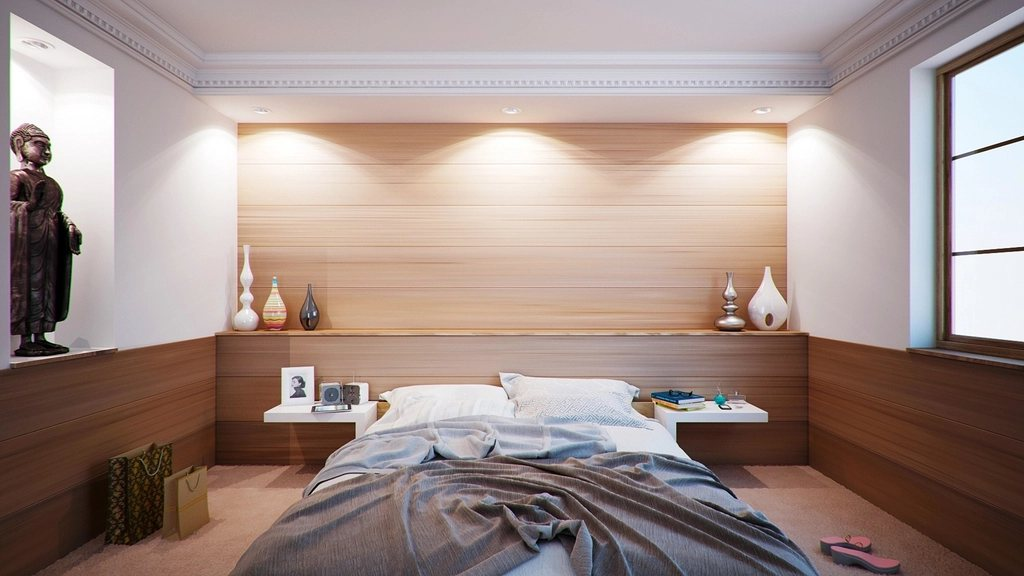
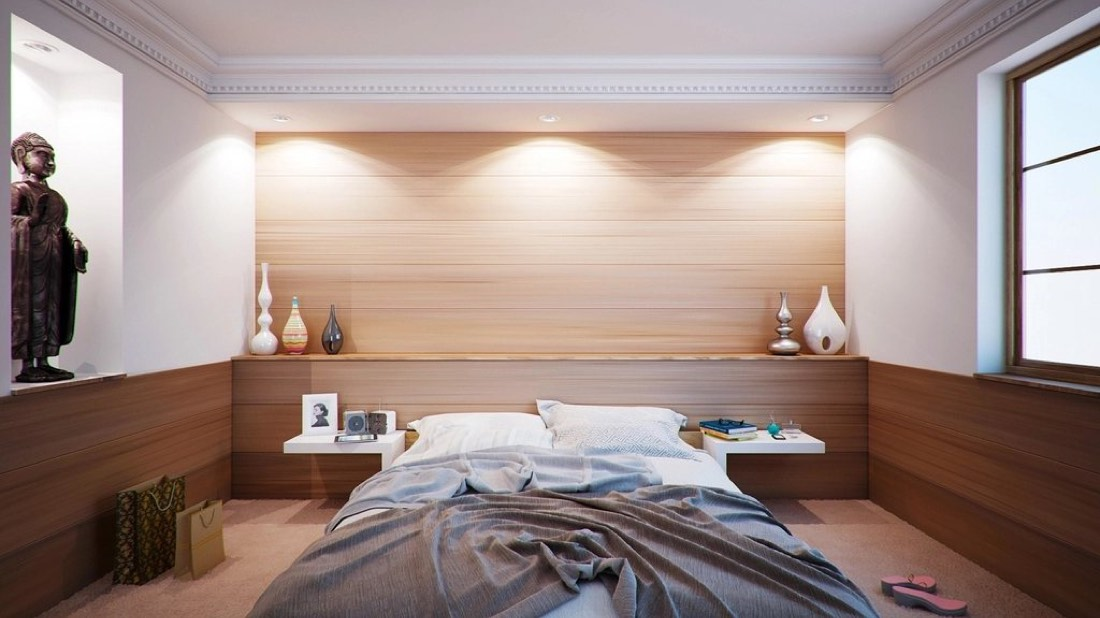
v3: centre the whole site and give every section a photograph
Seven more CC0 photos (10 total, 1.1MB after resampling, because he reviews
on a phone). Room checklist becomes four photo cards; precios, zonas,
preguntas and presupuesto each gain a picture; towns become centred chips.

Section heads, labels, the calculator, the story, the FAQ and the form all
centre; running prose and the checklists stay left-aligned.

Phone fixes found at a real 390px viewport: "Quincenal" was clipping, the
story had no side gutter, a nowrap placeholder ran off the screen edge.

diff --git a/index.html b/index.html
@@ -8,7 +8,7 @@
 <meta name="theme-color" content="#FBF9F5">
 <meta property="og:title" content="Noymi House Cleaning Service · Phoenixville, PA">
 <meta property="og:description" content="Limpieza de casas y oficinas en Phoenixville y alrededores. Siempre la misma persona, precio cerrado antes de empezar.">
-<meta property="og:image" content="https://zed0minat0r.github.io/casa-brillante/img/sala.jpg">
+<meta property="og:image" content="https://zed0minat0r.github.io/casa-brillante/img/sala.jpg?h=db12689a">
 <meta property="og:url" content="https://zed0minat0r.github.io/casa-brillante/">
 <meta property="og:type" content="website">
 <meta property="og:locale" content="es_US">
@@ -17,7 +17,7 @@
 <link rel="preconnect" href="https://fonts.gstatic.com" crossorigin>
 <link rel="stylesheet" href="https://fonts.googleapis.com/css2?family=Instrument+Serif:ital@0;1&family=Inter:wght@400;500;600&display=swap">
 <script type="application/ld+json">
-{"@context":"https://schema.org","@type":"HouseKeepingService","name":"Noymi House Cleaning Service","areaServed":{"@type":"City","name":"Phoenixville","addressRegion":"PA"},"address":{"@type":"PostalAddress","addressLocality":"Phoenixville","addressRegion":"PA","postalCode":"19460","addressCountry":"US"},"url":"https://zed0minat0r.github.io/casa-brillante/","image":"https://zed0minat0r.github.io/casa-brillante/img/sala.jpg","availableLanguage":["es"],"priceRange":"$$"}
+{"@context":"https://schema.org","@type":"HouseKeepingService","name":"Noymi House Cleaning Service","areaServed":{"@type":"City","name":"Phoenixville","addressRegion":"PA"},"address":{"@type":"PostalAddress","addressLocality":"Phoenixville","addressRegion":"PA","postalCode":"19460","addressCountry":"US"},"url":"https://zed0minat0r.github.io/casa-brillante/","image":"https://zed0minat0r.github.io/casa-brillante/img/sala.jpg?h=db12689a","availableLanguage":["es"],"priceRange":"$$"}
 </script>
 <style>
 /* ════════════════════════════════════════════════════════════════════════════════════════════
@@ -68,7 +68,9 @@ img{display:block;max-width:100%;height:auto}
 .mid{width:min(760px,calc(100% - 2.6rem));margin-inline:auto}
 .caps{font-family:var(--body);font-weight:600;font-size:.7rem;letter-spacing:.24em;text-transform:uppercase}
 .lead{font-size:1.1rem;line-height:1.62;color:var(--ink-2)}
-.ph{background:var(--ph-bg);color:var(--ph-ink);padding:0 .34em;border-radius:3px;font-weight:600;font-size:.92em;white-space:nowrap;font-family:var(--body);letter-spacing:0}
+/* NOT nowrap: a sentence-length placeholder would run straight off a 390px screen. The short
+   ones (a phone number, an email) have no space to break at anyway. */
+.ph{background:var(--ph-bg);color:var(--ph-ink);padding:.05em .34em;border-radius:3px;font-weight:600;font-size:.92em;font-family:var(--body);letter-spacing:0;box-decoration-break:clone;-webkit-box-decoration-break:clone}
 section{padding:6rem 0;position:relative}
 .hr{height:1px;background:var(--line);border:0;margin:0}
 .btn{display:inline-flex;align-items:center;justify-content:center;min-height:var(--tap);padding:0 1.8rem;font-family:var(--body);font-weight:600;font-size:.74rem;letter-spacing:.14em;text-transform:uppercase;text-decoration:none;border:1px solid var(--ink);color:var(--ink);background:transparent;border-radius:2px;cursor:pointer;transition:background .22s,color .22s}
@@ -78,12 +80,17 @@ section{padding:6rem 0;position:relative}
 .btn.clay{background:var(--clay);border-color:var(--clay);color:#fff}
 .btn.clay:hover{background:var(--clay-2);border-color:var(--clay-2)}
 
-/* ── SECTION HEADS: a number in the margin, the way a printed piece numbers its sections ── */
-.head{display:grid;grid-template-columns:auto 1fr;gap:1.5rem;align-items:start;margin-bottom:3rem}
-.head .no{font-family:var(--display);font-size:1rem;color:var(--clay);padding-top:.55rem;letter-spacing:.06em}
-.head h2{margin-top:-.4rem}
-.head .lead{margin-top:.9rem;max-width:620px}
-@media(max-width:639px){.head{grid-template-columns:1fr;gap:.4rem}.head .no{padding-top:0}}
+/* ── SECTION HEADS: CENTRED, with the roman numeral sitting over the heading rather than beside
+   it. Matt reviews this on a PHONE only, where a margin numeral has no margin to sit in. ── */
+.head{text-align:center;margin-bottom:2.6rem}
+.head .no{display:block;font-family:var(--display);font-size:1rem;color:var(--clay);letter-spacing:.3em;margin-bottom:.7rem}
+.head .lead{margin:1rem auto 0;max-width:560px}
+
+/* every section carries a picture - small, centred, one consistent shape */
+.secimg{display:block;width:min(560px,100%);margin:0 auto 2.4rem;aspect-ratio:16/9;object-fit:cover;border-radius:3px}
+.secimg.tall{aspect-ratio:4/5;width:min(330px,76%)}
+.secimg+.head{margin-top:0}
+.capline{text-align:center;font-size:.66rem;letter-spacing:.2em;text-transform:uppercase;color:var(--faint);margin-top:-1.9rem;margin-bottom:2.4rem}
 
 /* ── SPLASH ──────────────────────────────────────────────────────────────────────────────────
    A cream page with a wordmark on it is the thing Matt called basic, twice. So the splash is a
@@ -91,7 +98,7 @@ section{padding:6rem 0;position:relative}
    drifting very slowly - and it leaves by two shutters sliding apart off the top and bottom,
    which is a reveal rather than a fade. ───────────────────────────────────────────────────── */
 .splash{position:fixed;inset:0;z-index:100;display:grid;place-items:center;padding:1.5rem;background:#15150F;overflow:hidden}
-.splash .bg{position:absolute;inset:-4%;background:url("img/sala.jpg") center/cover no-repeat;animation:drift 15s ease-in-out infinite alternate;z-index:0}
+.splash .bg{position:absolute;inset:-4%;background:url("img/sala.jpg?h=db12689a") center/cover no-repeat;animation:drift 15s ease-in-out infinite alternate;z-index:0}
 .splash .scrim{position:absolute;inset:0;z-index:1;
   background:radial-gradient(60% 46% at 50% 50%,rgba(21,21,15,.55),transparent 72%),
              linear-gradient(180deg,rgba(21,21,15,.74),rgba(21,21,15,.52) 40%,rgba(21,21,15,.88))}
@@ -128,6 +135,10 @@ section{padding:6rem 0;position:relative}
 
 /* ── HERO, CENTRED ── */
 .hero{text-align:center;padding:5.5rem 0 0}
+/* CENTRED SITE. Headings, labels and standalone lines centre; running prose and the room
+   checklists stay left-aligned, because centred body copy and centred bullets are unreadable. */
+section{text-align:center}
+section ul,section ol,.story p:not(.sidelabel),.room ul{text-align:left}
 .hero .kick{color:var(--clay)}
 .hero h1{margin:1.3rem 0 0}
 .hero .lead{max-width:560px;margin:1.6rem auto 0}
@@ -160,36 +171,35 @@ section{padding:6rem 0;position:relative}
 .ba .tag.l{left:1rem}.ba .tag.r{right:1rem}
 
 /* ── PRICE CALCULATOR ── */
-.calc{display:grid;grid-template-columns:1.05fr .95fr;gap:2.6rem;align-items:center}
-@media(max-width:899px){.calc{grid-template-columns:1fr;gap:1.8rem}}
-.panel{background:var(--card);border:1px solid var(--line);border-radius:4px;padding:2rem 1.8rem}
+.calc{width:min(560px,calc(100% - .2rem));margin:0 auto}
+.panel{background:var(--card);border:1px solid var(--line);border-radius:4px;padding:2rem 1.8rem;text-align:left}
 .field{margin-bottom:1.1rem}
 .field label{display:block;font-size:.68rem;letter-spacing:.17em;text-transform:uppercase;font-weight:600;color:var(--ink-2);margin-bottom:.5rem}
 .seg{display:flex;gap:.4rem;flex-wrap:wrap}
-.seg button{flex:1;min-width:52px;min-height:46px;border:1px solid var(--line-2);background:transparent;border-radius:2px;font-family:var(--body);font-size:.95rem;color:var(--ink);cursor:pointer;transition:background .18s,color .18s,border-color .18s}
+.seg button{flex:1;min-width:52px;min-height:46px;padding:0 .3rem;line-height:1.2;border:1px solid var(--line-2);background:transparent;border-radius:2px;font-family:var(--body);font-size:.95rem;color:var(--ink);cursor:pointer;transition:background .18s,color .18s,border-color .18s}
 .seg button[aria-pressed="true"]{background:var(--ink);color:var(--paper);border-color:var(--ink)}
+/* four word-labels will not sit in one row on a 390px phone - "Quincenal" clips. Two up. */
+@media(max-width:639px){#segFrec{display:grid;grid-template-columns:1fr 1fr}}
 .out{border-top:1px solid var(--line);margin-top:1.4rem;padding-top:1.4rem;text-align:center}
 .out .n{font-family:var(--display);font-size:clamp(2.6rem,7vw,3.6rem);line-height:1;display:block}
 .out .u{font-size:.68rem;letter-spacing:.2em;text-transform:uppercase;color:var(--faint);display:block;margin-top:.5rem}
 
 /* ── ROOM BY ROOM ── */
-.rooms{display:grid;grid-template-columns:repeat(2,1fr);gap:0;border-top:1px solid var(--line)}
-@media(max-width:759px){.rooms{grid-template-columns:1fr}}
-.room{border-bottom:1px solid var(--line);padding:2rem 0}
-.room:nth-child(odd){padding-right:2.4rem;border-right:1px solid var(--line)}
-.room:nth-child(even){padding-left:2.4rem}
-@media(max-width:759px){.room:nth-child(odd){padding-right:0;border-right:0}.room:nth-child(even){padding-left:0}}
-.room h3{display:flex;align-items:baseline;gap:.7rem}
-.room h3 b{font-family:var(--body);font-size:.66rem;letter-spacing:.2em;color:var(--clay);font-weight:600}
-.room ul{margin:.9rem 0 0;padding-left:1.05rem;color:var(--ink-2);font-size:.96rem}
+.rooms{display:grid;grid-template-columns:repeat(2,1fr);gap:1.6rem}
+@media(max-width:759px){.rooms{grid-template-columns:1fr;gap:2rem}}
+.room{background:var(--card);border:1px solid var(--line);border-radius:4px;overflow:hidden;text-align:center}
+.room img{width:100%;aspect-ratio:16/10;object-fit:cover}
+.room .body{padding:1.5rem 1.4rem 1.7rem}
+.room h3{display:block}
+.room h3 b{display:block;font-family:var(--body);font-size:.64rem;letter-spacing:.2em;color:var(--clay);font-weight:600;margin-top:.4rem}
+.room ul{margin:1.1rem 0 0;padding-left:1.05rem;color:var(--ink-2);font-size:.96rem;display:inline-block;text-align:left}
 .room li{margin:.3rem 0}
 
 /* ── HER STORY: drop cap, margin label, big outline watermark behind ── */
 .story{position:relative;overflow:hidden;background:var(--paper-2)}
 .story .mark-bg{position:absolute;left:50%;top:50%;transform:translate(-50%,-50%);font-family:var(--display);font-size:clamp(9rem,26vw,22rem);line-height:1;color:transparent;-webkit-text-stroke:1px rgba(21,21,15,.08);white-space:nowrap;pointer-events:none;user-select:none}
-.story .grid{display:grid;grid-template-columns:.85fr 1.15fr;gap:3rem;align-items:center;position:relative}
-@media(max-width:899px){.story .grid{grid-template-columns:1fr;gap:2rem}}
-.portrait{aspect-ratio:4/5;background:repeating-linear-gradient(135deg,#E8E2D6 0 18px,#E2DBCC 18px 36px);border:1px solid var(--line);border-radius:3px;display:grid;place-items:center;text-align:center;padding:1.5rem}
+.story .grid{position:relative;width:min(640px,calc(100% - 2.6rem));margin:0 auto;text-align:center}
+.portrait{aspect-ratio:4/5;width:min(300px,70%);margin:0 auto 2.2rem;background:repeating-linear-gradient(135deg,#E8E2D6 0 18px,#E2DBCC 18px 36px);border:1px solid var(--line);border-radius:3px;display:grid;place-items:center;text-align:center;padding:1.5rem}
 .portrait span{font-size:.66rem;letter-spacing:.2em;text-transform:uppercase;color:var(--faint)}
 .story p+p{margin-top:1.1rem}
 .dropcap::first-letter{font-family:var(--display);float:left;font-size:3.9rem;line-height:.84;padding:.1rem .5rem 0 0;color:var(--clay)}
@@ -198,7 +208,7 @@ section{padding:6rem 0;position:relative}
 /* ── GALLERY, asymmetric on purpose ── */
 /* the tall frame sets the row height and the two on the right split it, so there is no gap
    left over at the bottom of the short column - which is what an auto row height gives you */
-.gal{display:grid;grid-template-columns:1.4fr 1fr;grid-template-rows:1fr 1fr;gap:1rem;height:min(76vh,760px)}
+.gal{display:grid;grid-template-columns:1.4fr 1fr;grid-template-rows:1fr 1fr;gap:1rem;height:min(76vh,760px);width:min(1180px,100%);margin:0 auto}
 .gal figure{margin:0;position:relative;overflow:hidden;border-radius:3px;min-height:0}
 .gal img{width:100%;height:100%;object-fit:cover}
 .gal .tall{grid-row:span 2}
@@ -206,18 +216,20 @@ section{padding:6rem 0;position:relative}
 @media(max-width:759px){.gal{grid-template-columns:1fr;grid-template-rows:none;height:auto}.gal figure{grid-row:auto;aspect-ratio:4/3}}
 
 /* ── QUOTE ── */
+.zonas{display:flex;flex-wrap:wrap;justify-content:center;gap:.5rem;max-width:720px;margin:0 auto}
+.zonas span{border:1px solid var(--line-2);border-radius:999px;padding:.5rem 1.1rem;font-size:.92rem;color:var(--ink-2)}
 .pull{font-family:var(--display);font-size:clamp(1.7rem,4.2vw,2.7rem);line-height:1.22;text-align:center;letter-spacing:-.018em}
 .pull i{color:var(--clay)}
 .attrib{text-align:center;margin-top:1.4rem;font-size:.68rem;letter-spacing:.2em;text-transform:uppercase;color:var(--faint)}
 
 details{border-bottom:1px solid var(--line);padding:1.2rem 0}
-summary{cursor:pointer;font-family:var(--display);font-size:1.26rem;list-style:none;display:flex;justify-content:space-between;align-items:center;gap:1rem}
+summary{cursor:pointer;font-family:var(--display);font-size:1.26rem;list-style:none;display:flex;justify-content:center;align-items:center;gap:.75rem;text-align:center}
 summary::-webkit-details-marker{display:none}
 summary::after{content:"+";color:var(--clay);font-size:1.3rem}
 details[open] summary::after{content:"−"}
-details p{margin-top:.8rem;color:var(--ink-2);font-size:.98rem}
+details p{margin-top:.8rem;color:var(--ink-2);font-size:.98rem;text-align:center}
 
-form{display:grid;gap:.9rem;margin-top:2.2rem;text-align:left}
+form{display:grid;gap:.9rem;margin-top:2.2rem;text-align:left;width:min(620px,calc(100% - .2rem));margin-inline:auto}
 .two{display:grid;grid-template-columns:1fr 1fr;gap:.9rem}
 @media(max-width:639px){.two{grid-template-columns:1fr}}
 input,select,textarea{width:100%;min-height:var(--tap);padding:.8rem .95rem;font-family:var(--body);font-size:1rem;color:var(--ink);background:var(--card);border:1px solid var(--line-2);border-radius:2px}
@@ -229,7 +241,8 @@ form label{display:block;font-size:.68rem;letter-spacing:.17em;text-transform:up
 
 footer{background:var(--ink);color:rgba(251,249,245,.7);padding:4rem 0 2.6rem;font-size:.93rem}
 footer a{color:#fff}
-footer .cols{display:flex;justify-content:space-between;gap:2.4rem;flex-wrap:wrap}
+footer{text-align:center}
+footer .cols{display:flex;justify-content:center;gap:3rem;flex-wrap:wrap}
 footer .mark{color:var(--paper);font-size:1.6rem}
 footer .caps{color:rgba(251,249,245,.5);margin-bottom:.7rem;display:block}
 
@@ -282,7 +295,7 @@ footer .caps{color:rgba(251,249,245,.5);margin-bottom:.7rem;display:block}
       <a class="btn" href="#precios">Calcular mi precio</a>
     </div>
     <div class="heroshot">
-      <img src="img/sala.jpg" alt="Sala limpia y ordenada con luz natural" width="1024" height="683">
+      <img src="img/sala.jpg?h=db12689a" alt="Sala limpia y ordenada con luz natural" width="1024" height="683">
       <span class="cap">Foto de referencia · pendiente cambiar por fotos de su trabajo</span>
     </div>
   </div>
@@ -296,10 +309,8 @@ footer .caps{color:rgba(251,249,245,.5);margin-bottom:.7rem;display:block}
   <div class="wrap">
     <div class="head rv">
       <span class="no">I</span>
-      <div>
-        <h2>Lo que se hace<br>en cada cuarto</h2>
-        <p class="lead">Nada de listas vagas. Esto es exactamente lo que se limpia, cuarto por cuarto, en una limpieza regular.</p>
-      </div>
+      <h2>Lo que se hace<br>en cada cuarto</h2>
+      <p class="lead">Nada de listas vagas. Esto es exactamente lo que se limpia, cuarto por cuarto, en una limpieza regular.</p>
     </div>
     <div class="rooms" id="rooms"></div>
   </div>
@@ -310,15 +321,13 @@ footer .caps{color:rgba(251,249,245,.5);margin-bottom:.7rem;display:block}
   <div class="wrap">
     <div class="head rv">
       <span class="no">II</span>
-      <div>
-        <h2>Antes y <i>después</i></h2>
-        <p class="lead">Arrastre la línea para ver la diferencia. En el teléfono, deslice con el dedo.</p>
-      </div>
+      <h2>Antes y <i>después</i></h2>
+      <p class="lead">Arrastre la línea para ver la diferencia. En el teléfono, deslice con el dedo.</p>
     </div>
     <div class="ba rv" id="ba">
-      <img class="before" src="img/sala.jpg" alt="La sala antes de limpiar">
+      <img class="before" src="img/sala.jpg?h=db12689a" alt="La sala antes de limpiar">
       <span class="tag l">Antes</span>
-      <img class="after" id="after" src="img/sala.jpg" alt="La sala después de limpiar">
+      <img class="after" id="after" src="img/sala.jpg?h=db12689a" alt="La sala después de limpiar">
       <span class="tag r">Después</span>
       <div class="handle" id="handle"><span class="knob">⇄</span></div>
     </div>
@@ -329,12 +338,11 @@ footer .caps{color:rgba(251,249,245,.5);margin-bottom:.7rem;display:block}
 <!-- ═══ III · PRECIOS ═══ -->
 <section id="precios">
   <div class="wrap">
+    <img class="secimg tall rv" src="img/loza.jpg?h=f8d74252" alt="Loza limpia acomodada en una repisa" width="733" height="1100" loading="lazy">
     <div class="head rv">
       <span class="no">III</span>
-      <div>
-        <h2>Calcule su precio</h2>
-        <p class="lead">Sin llamar y sin dejar su correo. Elija el tamaño de su casa y con qué frecuencia la quiere limpia.</p>
-      </div>
+      <h2>Calcule su precio</h2>
+      <p class="lead">Sin llamar y sin dejar su correo. Elija el tamaño de su casa y con qué frecuencia la quiere limpia.</p>
     </div>
     <div class="calc">
       <div class="panel rv">
@@ -354,14 +362,14 @@ footer .caps{color:rgba(251,249,245,.5);margin-bottom:.7rem;display:block}
           <span class="n" id="precio">—</span>
           <span class="u" id="precioU">por visita</span>
         </div>
-        <a class="btn clay" href="#presupuesto" style="width:100%;margin-top:1.2rem">Pedir este precio por escrito</a>
+        <a class="btn clay" href="#presupuesto" style="width:100%;margin-top:1.2rem">Pedir este precio</a>
       </div>
-      <div class="rv">
-        <p class="sidelabel">Qué incluye el precio</p>
-        <p class="lead" id="frecNota">Todo lo de la lista de arriba, cuarto por cuarto. Productos y equipo incluidos. Sin cargos escondidos al final.</p>
-        <p class="lead" style="margin-top:1.1rem">La primera visita suele ser una <i>limpieza profunda</i> y se cotiza aparte, porque toma más tiempo llegar a lo que no se ha tocado en meses.</p>
-        <p class="note" style="margin-top:1.4rem"><span class="ph">Confirmar todos los precios con Noymi</span> · los números de arriba son de referencia.</p>
-      </div>
+    </div>
+    <div class="rv" style="width:min(560px,100%);margin:2.4rem auto 0">
+      <p class="sidelabel">Qué incluye el precio</p>
+      <p class="lead" id="frecNota">Todo lo de la lista de arriba, cuarto por cuarto. Productos y equipo incluidos. Sin cargos escondidos al final.</p>
+      <p class="lead" style="margin-top:1.1rem">La primera visita suele ser una <i>limpieza profunda</i> y se cotiza aparte, porque toma más tiempo llegar a lo que no se ha tocado en meses.</p>
+      <p class="note" style="margin-top:1.4rem"><span class="ph">Confirmar todos los precios con Noymi</span> · los números de arriba son de referencia.</p>
     </div>
   </div>
 </section>
@@ -385,9 +393,9 @@ footer .caps{color:rgba(251,249,245,.5);margin-bottom:.7rem;display:block}
 <section style="padding-top:0">
   <div class="wrap">
     <div class="gal">
-      <figure class="tall rv"><img src="img/recamara.jpg" alt="Recámara ordenada"><figcaption>Recámara</figcaption></figure>
-      <figure class="wide rv"><img src="img/comedor.jpg" alt="Comedor limpio"><figcaption>Comedor</figcaption></figure>
-      <figure class="wide rv"><img src="img/sala.jpg" alt="Sala limpia"><figcaption>Sala</figcaption></figure>
+      <figure class="tall rv"><img src="img/bano.jpg?h=78290901" alt="Baño limpio" loading="lazy"><figcaption>Baño</figcaption></figure>
+      <figure class="wide rv"><img src="img/cocina2.jpg?h=12e5ee3f" alt="Cocina limpia" loading="lazy"><figcaption>Cocina</figcaption></figure>
+      <figure class="wide rv"><img src="img/comedor.jpg?h=4156e728" alt="Comedor limpio" loading="lazy"><figcaption>Comedor</figcaption></figure>
     </div>
     <p class="note rv" style="margin-top:1rem"><span class="ph">Cambiar por fotos reales de casas que ella ha limpiado</span></p>
   </div>
@@ -404,21 +412,21 @@ footer .caps{color:rgba(251,249,245,.5);margin-bottom:.7rem;display:block}
 <!-- ═══ V · ZONAS ═══ -->
 <section id="zonas">
   <div class="wrap">
+    <img class="secimg rv" src="img/ventana.jpg?h=efd3e0ac" alt="Sala con luz de ventana" width="1100" height="734" loading="lazy">
     <div class="head rv">
       <span class="no">V</span>
-      <div>
-        <h2>Dónde trabajo</h2>
-        <p class="lead">Con base en Phoenixville, PA 19460. Si su pueblo no aparece, pregunte igual.</p>
-      </div>
+      <h2>Dónde trabajo</h2>
+      <p class="lead">Con base en Phoenixville, PA 19460. Si su pueblo no aparece, pregunte igual.</p>
     </div>
-    <div class="rooms rv" style="border-top:0" id="zonalist"></div>
+    <div class="zonas rv" id="zonalist"></div>
   </div>
 </section>
 
 <!-- ═══ VI · PREGUNTAS ═══ -->
 <section id="preguntas" style="background:var(--paper-2)">
   <div class="wrap" style="max-width:860px">
-    <div class="head rv"><span class="no">VI</span><div><h2>Preguntas</h2></div></div>
+    <img class="secimg rv" src="img/aspirado.jpg?h=76ed6b07" alt="Aspiradora sobre piso de madera" width="733" height="1100" loading="lazy" style="aspect-ratio:16/9">
+    <div class="head rv"><span class="no">VI</span><h2>Preguntas</h2></div>
     <div>
       <details class="rv"><summary>¿Tengo que estar en la casa?</summary><p>No hace falta. Muchos clientes dejan una llave o el código de la puerta. Si prefiere estar, también está bien.</p></details>
       <details class="rv"><summary>¿Usted trae los productos?</summary><p>Sí, traigo todo. Si prefiere que use algo que ya tiene en casa, lo uso sin problema.</p></details>
@@ -433,7 +441,8 @@ footer .caps{color:rgba(251,249,245,.5);margin-bottom:.7rem;display:block}
 <!-- ═══ VII · PRESUPUESTO ═══ -->
 <section id="presupuesto">
   <div class="wrap" style="max-width:780px">
-    <div class="head rv"><span class="no">VII</span><div><h2>Pida su presupuesto</h2><p class="lead">Le respondo el mismo día. Sin compromiso.</p></div></div>
+    <img class="secimg rv" src="img/escritorio.jpg?h=50c5d58c" alt="Escritorio ordenado con una planta" width="1100" height="733" loading="lazy">
+    <div class="head rv"><span class="no">VII</span><h2>Pida su presupuesto</h2><p class="lead">Le respondo el mismo día. Sin compromiso.</p></div>
     <form id="quote" class="rv" novalidate>
       <div class="two">
         <div><label for="nombre">Nombre</label><input id="nombre" autocomplete="name" required></div>
@@ -444,9 +453,9 @@ footer .caps{color:rgba(251,249,245,.5);margin-bottom:.7rem;display:block}
         <div><label for="tipo">Tipo de limpieza</label><select id="tipo"></select></div>
       </div>
       <div><label for="mensaje">¿Algo que deba saber?</label><textarea id="mensaje" placeholder="Mascotas, alergias, cuartos que no se tocan, horarios…"></textarea></div>
-      <button class="btn clay" type="submit" style="justify-self:start">Enviar</button>
-      <p class="note">O llame al <span class="ph">(000) 000-0000</span>.</p>
-      <p class="sent" id="sent" aria-live="polite"></p>
+      <button class="btn clay" type="submit" style="justify-self:center;min-width:220px">Enviar</button>
+      <p class="note" style="text-align:center">O llame al <span class="ph">(000) 000-0000</span>.</p>
+      <p class="sent" id="sent" aria-live="polite" style="text-align:center"></p>
     </form>
   </div>
 </section>
@@ -488,13 +497,13 @@ const DATA = {
     {k:"oficina", n:"Oficina o consultorio"}
   ],
   cuartosDetalle:[
-    {n:"Cocina", t:"Todo lo que se toca a diario",
+    {n:"Cocina", t:"Todo lo que se toca a diario", img:"cocina.jpg?h=71118dff",
      items:["Mesones y fregadero","Estufa y campana por fuera","Microondas por dentro y por fuera","Frente de gabinetes","Piso barrido y trapeado","Basura afuera"]},
-    {n:"Baños", t:"Lo que de verdad importa",
+    {n:"Baños", t:"Lo que de verdad importa", img:"bano.jpg?h=78290901",
      items:["Inodoro completo, también atrás","Regadera y mampara","Azulejo y juntas","Espejos sin marcas","Lavabo y grifería","Piso desinfectado"]},
-    {n:"Recámaras", t:"Orden, no sólo limpieza",
+    {n:"Recámaras", t:"Orden, no sólo limpieza", img:"recamara.jpg?h=ed644046",
      items:["Camas tendidas","Polvo en muebles y repisas","Debajo de la cama","Marcos y rodapiés","Espejos y vidrios","Aspirado completo"]},
-    {n:"Sala y comedor", t:"Donde se recibe",
+    {n:"Sala y comedor", t:"Donde se recibe", img:"sala.jpg?h=db12689a",
      items:["Polvo en todo","Cojines acomodados","Debajo de los muebles","Mesas y superficies","Vidrios de interior","Aspirado y trapeado"]}
   ],
   pueblos:["Phoenixville","Collegeville","Royersford","Spring City","Malvern","Chesterbrook",
@@ -507,13 +516,13 @@ document.getElementById("run").innerHTML = towns + towns;
 
 /* room-by-room */
 document.getElementById("rooms").innerHTML = DATA.cuartosDetalle.map(r=>`
-  <div class="room rv"><h3>${r.n} <b>${r.t}</b></h3><ul>${r.items.map(i=>`<li>${i}</li>`).join("")}</ul></div>`).join("");
+  <div class="room rv">
+    <img src="img/${r.img}" alt="${r.n}" loading="lazy">
+    <div class="body"><h3>${r.n}<b>${r.t}</b></h3><ul>${r.items.map(i=>`<li>${i}</li>`).join("")}</ul></div>
+  </div>`).join("");
 
-/* towns, as a second two-column list */
-document.getElementById("zonalist").innerHTML = [0,1].map(col=>`
-  <div class="room rv"><ul style="list-style:none;padding:0">${
-    DATA.pueblos.filter((_,i)=>i%2===col).map(t=>`<li style="padding:.45rem 0;border-bottom:1px solid var(--line)">${t}</li>`).join("")
-  }</ul></div>`).join("");
+/* towns, as centred chips - a two-column list has nowhere to be on a phone */
+document.getElementById("zonalist").innerHTML = DATA.pueblos.map(t=>`<span>${t}</span>`).join("");
 
 /* form services */
 document.getElementById("tipo").innerHTML = DATA.servicios.map(s=>`<option value="${s.k}">${s.n}</option>`).join("");

diff --git a/img/CREDITS.md b/img/CREDITS.md
@@ -1,10 +1,24 @@
 Placeholder photography, to be replaced with Noymi's own photos of her work.
 
-All three are CC0 (public domain) from Openverse, so they are safe to publish as-is:
-  sala.jpg      "Free living room interior design"  - rawpixel, CC0
-  comedor.jpg   "Interior Dining"                   - StockSnap, CC0
-  recamara.jpg  "Free bedroom interior design"      - rawpixel, CC0
+All CC0 (public domain) via Openverse, so they are safe to publish as-is. All resampled to 1100px
+on the long edge at q68 - the whole set is ~1.1MB, because Matt reviews this on a phone.
 
-I looked at everything before using it. Two other candidates were pulled: a dated red bathroom and
-a restaurant with a Christmas tree in it, both of which came back from searches for "bathroom
-interior" and "kitchen interior". A free-stock search is not a substitute for looking.
+  sala.jpg        "Free living room interior design"  rawpixel     hero + the antes/despues wipe
+  comedor.jpg     "Interior Dining"                   StockSnap    gallery
+  recamara.jpg    "Free bedroom interior design"      rawpixel     room card
+  cocina.jpg      "Farmhouse Kitchen"                 StockSnap    room card
+  bano.jpg        "Modern bathroom interior"          rawpixel     room card + gallery
+  cocina2.jpg     "Free clean shiny kitchen image"    rawpixel     gallery
+  loza.jpg        "Kitchen Cabinet"                   StockSnap    precios
+  ventana.jpg     "Home House"                        StockSnap    zonas
+  aspirado.jpg    "Free vacuum cleaner wood floor"    rawpixel     preguntas
+  escritorio.jpg  "Minimal Office"                    StockSnap    presupuesto
+
+I looked at every one before using it. Five candidates were pulled on sight: a dated red bathroom,
+a restaurant with a Christmas tree, a dark brown 1990s bathroom, an ornate yellow hallway, and a
+search for "cleaning supplies" that returned antique farm tools. A free-stock search is not a
+substitute for looking at what it hands back.
+
+Every <img> is stamped with ?h=<sha1[:8]> of its own bytes. The ?v=<sha> on the page URL busts the
+HTML only, so a REPLACED image at the same filename would otherwise serve from cache forever.
+Re-stamp after changing any image.
